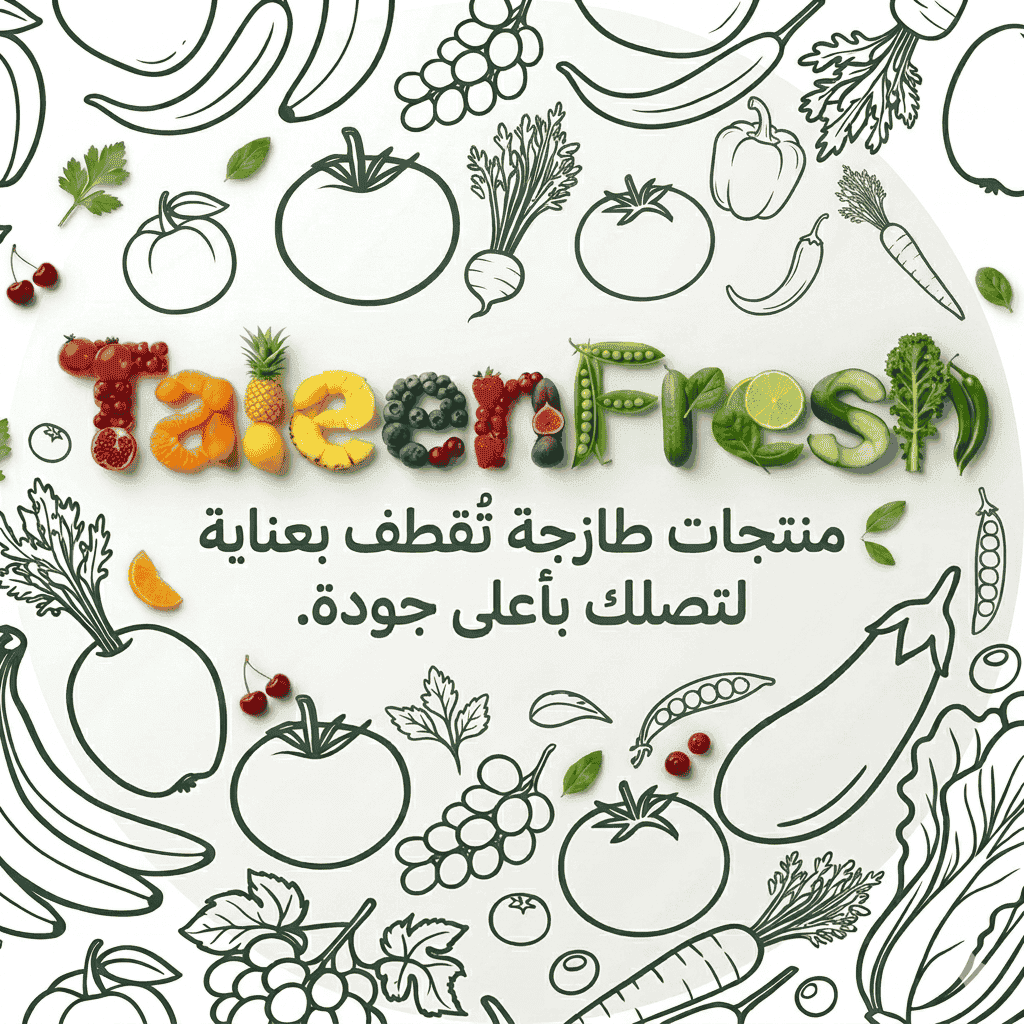
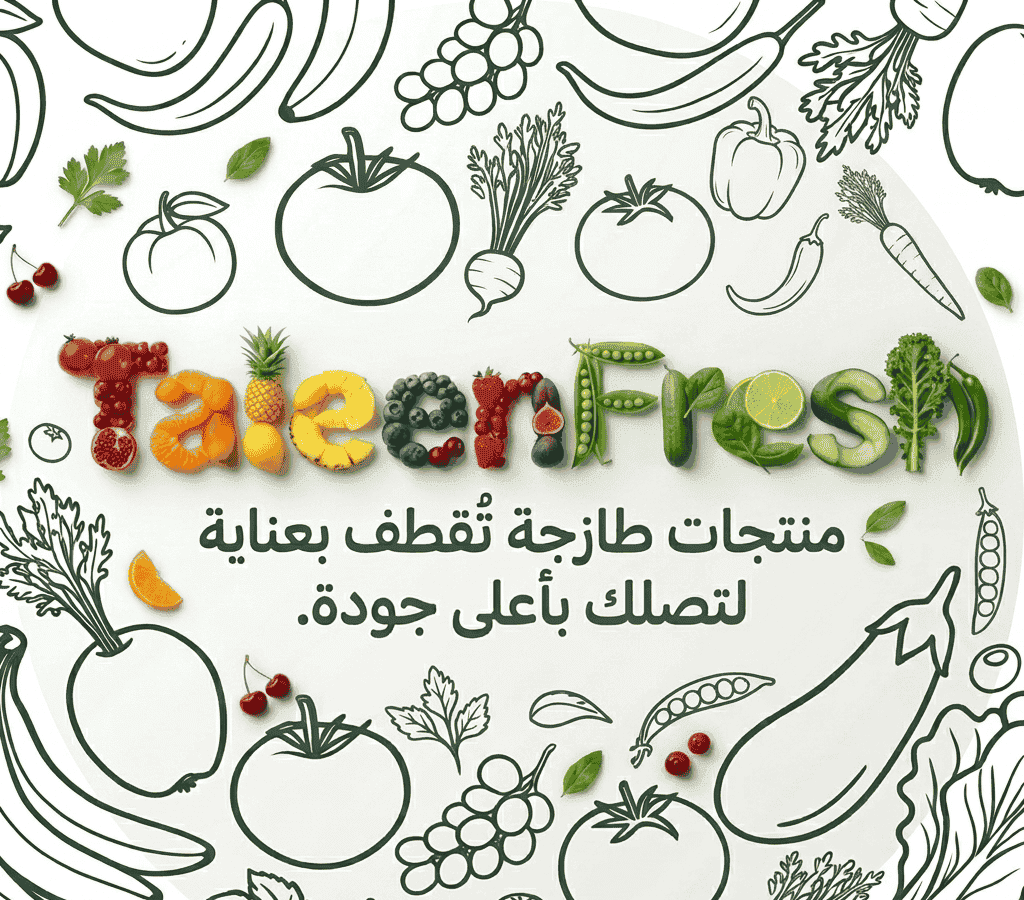
updates

diff --git a/src/components/customer/Storefront.tsx b/src/components/customer/Storefront.tsx
@@ -32,10 +32,10 @@ interface StorefrontProps {
 }
 
 const CATEGORIES: readonly CategoryConfig[] = [
-  { id: 'all', name: 'الكل', icon: '🥗', color: 'bg-orange-100' },
-  { id: 'veggies', name: 'خضروات', icon: '🫜', color: 'bg-emerald-100' },
-  { id: 'fruits', name: 'فواكه', icon: '🍒', color: 'bg-red-100' },
-  { id: 'leaf_greens', name: 'ورقيات', icon: '☘️', color: 'bg-green-100' },
+  { id: 'all', name: 'الكل', icon: '🥗', color: 'bg-white' },
+  { id: 'veggies', name: 'خضروات', icon: '🫛', color: 'bg-white' },
+  { id: 'fruits', name: 'فواكه', icon: '🍏', color: 'bg-white' },
+  { id: 'leaf_greens', name: 'ورقيات', icon: '🍀', color: 'bg-white' },
 ]
 
 const getGreeting = (hour: number): string => {
@@ -112,7 +112,7 @@ export default function Storefront({ initialProducts }: StorefrontProps) {
     <div dir="rtl" className="relative min-h-[100dvh] bg-transparent pb-24">
       <header className="flex items-center justify-between px-6 pb-1 pt-0">
         <div className="flex items-center gap-3">
-          <div className="relative h-12 w-12 shrink-0 overflow-hidden rounded-full border border-[#2C643E] bg-white shadow-md">
+          <div className="relative h-12 w-12 shrink-0 overflow-hidden rounded-full bg-white shadow-md">
             <Image
               src="/TaleenFresh.png"
               alt="TaleenFresh Logo"
@@ -120,7 +120,7 @@ export default function Storefront({ initialProducts }: StorefrontProps) {
               sizes="48px"
               priority
               decoding="async"
-              className="object-cover scale-[1.05]"
+              className="object-cover scale-[1]"
             />
           </div>
           <div>
@@ -174,10 +174,10 @@ export default function Storefront({ initialProducts }: StorefrontProps) {
             >
               <motion.div
                 whileTap={{ scale: 0.9 }}
-                className={`flex h-16 w-16 items-center justify-center rounded-full border-2 shadow-sm transition-colors ${
+                className={`flex h-16 w-16 items-center justify-center rounded-full shadow-sm transition-colors ${
                   selectedCategory === category.id
-                    ? 'border-[#2C643E] bg-white'
-                    : `border-white ${category.color}`
+                    ? 'border-2 border-[#2C643E] bg-white'
+                    : `border border-gray-440 ${category.color}`
                 }`}
               >
                 <span className="text-2xl" aria-hidden="true">
@@ -237,7 +237,7 @@ export default function Storefront({ initialProducts }: StorefrontProps) {
       </div>
 
       <div className="fixed bottom-0 left-0 right-0 z-40 mx-auto w-full max-w-[340px] px-2">
-        <div className="pointer-events-auto flex h-20 items-center justify-between rounded-full border bg-white px-5 shadow-[0_8px_30px_rgb(0,0,0,0.12)]">
+        <div className="pointer-events-auto flex h-20 items-center justify-between rounded-full bg-white px-5 shadow-[0_8px_30px_rgb(0,0,0,0.12)]">
           <button type="button" className="flex flex-col items-center gap-1 text-[#2C643E]">
             <Home size={24} strokeWidth={2.5} aria-hidden="true" />
             <span className="text-[10px] font-bold">الرئيسية</span>